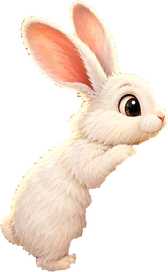
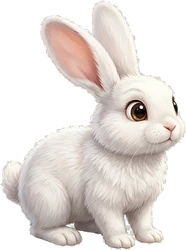
Add files via upload

diff --git a/admin.html b/admin.html
@@ -227,12 +227,12 @@ async function tShop(){
  window.__shopKeep=S;
  const pk=Array.isArray(S.perks)?S.perks:[];
  $("pane").innerHTML=`<div class="box"><h2>Налаштування магазину</h2><div class="box"><h3>Промокод за підписку</h3><label><input type="checkbox" id="prmon"${S.promo_on?" checked":""}> <b>Показувати форму «Отримай промокод» на головній</b></label><p class="mut">Спершу створіть промокод у вкладці «Промокоди», потім впишіть його сюди. Клієнт залишає email або телефон, дає згоду й бачить цей промокод.</p><div><label>Промокод (як у вкладці «Промокоди»)</label><input data-sf="promo_code" placeholder="WELCOME5" value="${esc(S.promo_code||"")}"></div><div><label>Заголовок</label><input data-sf="promo_title" placeholder="Знижка на перше замовлення" value="${esc(S.promo_title||"")}"></div><div><label>Текст</label><input data-sf="promo_text" placeholder="Залиште email або телефон і отримайте промокод" value="${esc(S.promo_text||"")}"></div></div><div class="box"><h3>Вигляд каталогу</h3><p class="mut">Плитки категорій (картинка й назва) та сітка товарів. Картинку категорії додаєте у вкладці «Категорії». Якщо картинки немає, показується фото першого товару.</p><div><label>Плиток у ряд на комп’ютері</label><select data-lay="cat_cols"><option value="2"${String(S.cat_cols||"4")==="2"?" selected":""}>2</option><option value="3"${String(S.cat_cols||"4")==="3"?" selected":""}>3</option><option value="4"${String(S.cat_cols||"4")==="4"?" selected":""}>4</option><option value="5"${String(S.cat_cols||"4")==="5"?" selected":""}>5</option><option value="6"${String(S.cat_cols||"4")==="6"?" selected":""}>6</option></select></div><div><label>Плиток у ряд на телефоні</label><select data-lay="cat_cols_m"><option value="2"${String(S.cat_cols_m||"2")==="2"?" selected":""}>2</option><option value="3"${String(S.cat_cols_m||"2")==="3"?" selected":""}>3</option></select></div><div><label>Скільки рядків плиток показувати одразу</label><select data-lay="cat_rows"><option value="0"${String(S.cat_rows||"0")==="0"?" selected":""}>Усі</option><option value="1"${String(S.cat_rows||"0")==="1"?" selected":""}>1</option><option value="2"${String(S.cat_rows||"0")==="2"?" selected":""}>2</option><option value="3"${String(S.cat_rows||"0")==="3"?" selected":""}>3</option><option value="4"${String(S.cat_rows||"0")==="4"?" selected":""}>4</option></select><p class="mut">Наприклад: 4 у ряд × 3 рядки = 12 плиток, решта під кнопкою «Показати всі».</p></div><div><label>Вигляд товарів за замовчуванням</label><select data-lay="grid_def"><option value="l"${String(S.grid_def||"l")==="l"?" selected":""}>Велика сітка</option><option value="m"${String(S.grid_def||"l")==="m"?" selected":""}>Середня сітка</option><option value="s"${String(S.grid_def||"l")==="s"?" selected":""}>Мала сітка</option><option value="list"${String(S.grid_def||"l")==="list"?" selected":""}>Список</option></select><p class="mut">Клієнт на сайті сам може перемикати вигляд кнопками біля фільтрів.</p></div></div><div class="box"><h3>Блок із цифрами на головній</h3><div class="box"><h3>Клієнти і лендінги</h3><label><input type="checkbox" id="lndend"${S.lnd_end_off?"":" checked"}> <b>Показувати «Акція завершилась» на лендінгах</b> (пояснення, діючі акції та форма «повідомити про наступну акцію»; потрібен SQL v26). Вимкнено — старе коротке повідомлення, а замовлення після завершення знижки оформлюються без попередження</label><label><input type="checkbox" id="srcon"${S.src_off?"":" checked"}> <b>Запам’ятовувати, звідки прийшов клієнт</b> (реклама, лендінг, посилання), для вкладки «Клієнти → Джерела замовлень»</label><label><input type="checkbox" id="pcod"${S.pay_cod_off?"":" checked"}> <b>Оплата при отриманні</b></label><label><input type="checkbox" id="pcard"${S.pay_card_off?"":" checked"}> <b>Оплата карткою (менеджер надсилає посилання на оплату)</b></label><label><input type="checkbox" id="pbank"${S.bank_on?" checked":""}> <b>Оплата на рахунок ФОП (IBAN)</b></label><textarea id="pbt" rows="3" placeholder="Реквізити: отримувач, IBAN, ІПН/ЄДРПОУ, банк" style="width:100%">${esc(S.bank_text||"")}</textarea><label><input type="checkbox" id="stkon"${S.stock_on?" checked":""}> <b>Облік залишків (показувати «залишилось N шт», не продавати більше, ніж є)</b></label><label><input type="checkbox" id="packon"${S.pack_off?"":" checked"}> <b>Показувати на товарах, скільки в бухті, упаковці або ящику</b></label><label><input type="checkbox" id="relon"${S.rel_off?"":" checked"}> <b>На сторінці товару: «Дивіться також» (замість «Схожі товари») — до 9 сумісних товарів з галочкою «Додати до кошика»</b></label><label><input type="checkbox" id="hson"${S.hs_off?"":" checked"}> <b>Статті та корисні інструменти на головній — з фото, гортаються вбік (кнопка «Розгорнути»)</b></label><label><input type="checkbox" id="nphon"${S.nophoto_last_off?"":" checked"}> <b>Товари без фото показувати в кінці списку (стають на місце, щойно отримають фото)</b></label><label><input type="checkbox" id="cimgon"${S.cat_img_first?"":" checked"}> <b>Фото підрозділів у каталозі — з найдорожчого товару групи (головна не змінюється)</b></label><label><input type="checkbox" id="accon"${S.acc_offer_off?"":" checked"}> <b>Після замовлення пропонувати створити кабінет</b></label></div>
-<div class="box"><h3>Сучасні можливості сайту</h3><p class="mut">Усе ввімкнене за замовчуванням. Приберіть галочку, і функція зникне з сайту.</p><label><input type="checkbox" id="cmpon"${S.cmp_off?"":" checked"}> <b>Порівняння товарів</b> (кнопка ⇄ на картці, сторінка порівняння до 4 товарів)</label><label><input type="checkbox" id="inston"${S.inst_off?"":" checked"}> <b>Банер «Встановити додаток»</b> (з’являється через 15 секунд, не частіше разу на місяць)</label><label><input type="checkbox" id="micon"${S.mic_off?"":" checked"}> <b>Голосовий пошук</b> (кнопка 🎤 у пошуку)</label><label><input type="checkbox" id="animon"${S.anim_off?"":" checked"}> <b>Плавні анімації</b> (появи карток, натискання кнопок)</label><label><input type="checkbox" id="eston"${S.est_off?"":" checked"}> <b>Кошторис у PDF</b> (кнопка в кошику й в обраному)</label><label><input type="checkbox" id="chkon"${S.check_off?"":" checked"}> <b>Чек-лист для ремонту</b> (сторінка #/check)</label><label><input type="checkbox" id="simon"${S.sim_off?"":" checked"}> <b>Симулятор кольору світла</b> (сторінка #/light)</label><label><input type="checkbox" id="colon"${S.col_off?"":" checked"}> <b>Фільтр за кольором</b> (для розеток і вимикачів)</label><label><input type="checkbox" id="frameon"${S.frame_off?"":" checked"}> <b>Конструктор рамки</b> (сторінка #/frame)</label><label><input type="checkbox" id="objon"${S.obj_off?"":" checked"}> <b>«Мої об’єкти» в кабінеті</b> (потрібен SQL v27)</label></div>
+<div class="box"><h3>Сучасні можливості сайту</h3><p class="mut">Усе ввімкнене за замовчуванням. Приберіть галочку, і функція зникне з сайту.</p><label><input type="checkbox" id="regon"${S.reg_off?"":" checked"}> <b>Напис у правому куті «Зареєструйся і отримай постійну знижку»</b> (бачать лише ті, хто ще не увійшов)</label><label><input type="checkbox" id="chaon"${S.chase_off?"":" checked"}> <b>Кролик і лампочка внизу сторінки</b> (анімація на комп’ютері, коли докрутили до кінця)</label><label><input type="checkbox" id="cmpon"${S.cmp_off?"":" checked"}> <b>Порівняння товарів</b> (кнопка ⇄ на картці, сторінка порівняння до 4 товарів)</label><label><input type="checkbox" id="inston"${S.inst_off?"":" checked"}> <b>Банер «Встановити додаток»</b> (з’являється через 15 секунд, не частіше разу на місяць)</label><label><input type="checkbox" id="micon"${S.mic_off?"":" checked"}> <b>Голосовий пошук</b> (кнопка 🎤 у пошуку)</label><label><input type="checkbox" id="animon"${S.anim_off?"":" checked"}> <b>Плавні анімації</b> (появи карток, натискання кнопок)</label><label><input type="checkbox" id="eston"${S.est_off?"":" checked"}> <b>Кошторис у PDF</b> (кнопка в кошику й в обраному)</label><label><input type="checkbox" id="chkon"${S.check_off?"":" checked"}> <b>Чек-лист для ремонту</b> (сторінка #/check)</label><label><input type="checkbox" id="simon"${S.sim_off?"":" checked"}> <b>Симулятор кольору світла</b> (сторінка #/light)</label><label><input type="checkbox" id="colon"${S.col_off?"":" checked"}> <b>Фільтр за кольором</b> (для розеток і вимикачів)</label><label><input type="checkbox" id="frameon"${S.frame_off?"":" checked"}> <b>Конструктор рамки</b> (сторінка #/frame)</label><label><input type="checkbox" id="objon"${S.obj_off?"":" checked"}> <b>«Мої об’єкти» в кабінеті</b> (потрібен SQL v27)</label></div>
 <div class="box"><h3>Помічник підбору на сайті</h3><label><input type="checkbox" id="hlpon"${S.help_on?" checked":""}> <b>Показувати сторінку «Помічник підбору» (калькулятори) і посилання в підвалі</b></label><p class="mut">Сторінка: https://trendelectro.com.ua/#/help. Вимкніть галочку, і сторінка зникне. Нижче оберіть, які калькулятори показувати (нічого не обрано = усі).</p>${Object.keys(CN2).map(k=>`<label><input type="checkbox" data-hk="${k}"${(S.help_k||[]).includes(k)?" checked":""}> ${CN2[k]}</label>`).join("")}</div>
 <label><input type="checkbox" id="stson"${S.stats_on?" checked":""}> <b>Показувати блок із цифрами</b></label><p class="mut">Якщо поля нижче порожні, показуються автоматичні цифри: кількість товарів, категорій і мінімальна ціна. Свої цифри (до 4) вписуйте лише правдиві.</p>${[0,1,2,3].map(i=>{const x=(S.stats||[])[i]||{};return `<div class="rw"><input data-sv="${i}" placeholder="Цифра, напр. 2500+" value="${esc(x.v||"")}"><input data-sl="${i}" placeholder="Підпис, напр. товарів" value="${esc(x.l||"")}"></div>`}).join("")}</div><div class="box" style="background:#fff7e0"><label><input type="checkbox" id="ordoff"${S.orders_off?" checked":""}> <b>Призупинити приймання замовлень</b> (сайт працює як каталог, кнопки купівлі сховані)</label><div><label>Текст повідомлення для клієнтів (необов’язково)</label><input data-sf="orders_msg" placeholder="Замовлення тимчасово не приймаємо…" value="${esc(S.orders_msg||"")}"></div></div><p class="mut">Ці дані показуються на сайті (шапка, підвал, контакти, кнопка чату). Порожнє поле — на сайті не показується.</p>${SHOPF.map(f=>`<div><label>${f[1]}</label><input data-sf="${f[0]}" placeholder="${esc(f[2])}" value="${esc(S[f[0]]||"")}"></div>`).join("")}<h3>Переваги на головній (до 4, необов’язково)</h3>${[0,1,2,3].map(i=>`<div class="rw"><input data-pt="${i}" placeholder="Заголовок" value="${esc(pk[i]&&pk[i].t||"")}"><input data-pd="${i}" placeholder="Пояснення" value="${esc(pk[i]&&pk[i].d||"")}"></div>`).join("")}<div class="msg" id="fm"></div><button data-act="shopsave">Зберегти</button></div>`;
 }
 async function shopSave(btn){
- const S={};if(!$("lndend").checked)S.lnd_end_off=true;if(!$("srcon").checked)S.src_off=true;if(!$("accon").checked)S.acc_offer_off=true;if(!$("packon").checked)S.pack_off=true;if(!$("nphon").checked)S.nophoto_last_off=true;if(!$("hson").checked)S.hs_off=true;if(!$("relon").checked)S.rel_off=true;if(!$("cimgon").checked)S.cat_img_first=true;if($("stkon").checked)S.stock_on=true;if(!$("pcod").checked)S.pay_cod_off=true;if(!$("pcard").checked)S.pay_card_off=true;if($("pbank").checked)S.bank_on=true;S.bank_text=$("pbt").value.trim();if($("hlpon").checked)S.help_on=true;if(!$("cmpon").checked)S.cmp_off=true;if(!$("inston").checked)S.inst_off=true;if(!$("micon").checked)S.mic_off=true;if(!$("animon").checked)S.anim_off=true;if(!$("eston").checked)S.est_off=true;if(!$("chkon").checked)S.check_off=true;if(!$("simon").checked)S.sim_off=true;if(!$("colon").checked)S.col_off=true;if(!$("frameon").checked)S.frame_off=true;if(!$("objon").checked)S.obj_off=true;{const hk=[...document.querySelectorAll("[data-hk]:checked")].map(x=>x.dataset.hk);if(hk.length)S.help_k=hk}if($("ordoff").checked)S.orders_off=true;if($("stson").checked)S.stats_on=true;if($("prmon").checked)S.promo_on=true;["bday_on","bday_percent","bday_text","bday_img","bday_days"].forEach(k=>{if(window.__shopKeep&&window.__shopKeep[k]!==undefined)S[k]=window.__shopKeep[k]});document.querySelectorAll("[data-lay]").forEach(x=>{S[x.dataset.lay]=x.value});{const st=[0,1,2,3].map(i=>({v:document.querySelector(`[data-sv="${i}"]`).value.trim(),l:document.querySelector(`[data-sl="${i}"]`).value.trim()})).filter(x=>x.v&&x.l);if(st.length)S.stats=st}document.querySelectorAll("[data-sf]").forEach(i=>{const v=i.value.trim();if(v)S[i.dataset.sf]=v});
+ const S={};if(!$("lndend").checked)S.lnd_end_off=true;if(!$("srcon").checked)S.src_off=true;if(!$("accon").checked)S.acc_offer_off=true;if(!$("regon").checked)S.reg_off=true;if(!$("chaon").checked)S.chase_off=true;if(!$("packon").checked)S.pack_off=true;if(!$("nphon").checked)S.nophoto_last_off=true;if(!$("hson").checked)S.hs_off=true;if(!$("relon").checked)S.rel_off=true;if(!$("cimgon").checked)S.cat_img_first=true;if($("stkon").checked)S.stock_on=true;if(!$("pcod").checked)S.pay_cod_off=true;if(!$("pcard").checked)S.pay_card_off=true;if($("pbank").checked)S.bank_on=true;S.bank_text=$("pbt").value.trim();if($("hlpon").checked)S.help_on=true;if(!$("cmpon").checked)S.cmp_off=true;if(!$("inston").checked)S.inst_off=true;if(!$("micon").checked)S.mic_off=true;if(!$("animon").checked)S.anim_off=true;if(!$("eston").checked)S.est_off=true;if(!$("chkon").checked)S.check_off=true;if(!$("simon").checked)S.sim_off=true;if(!$("colon").checked)S.col_off=true;if(!$("frameon").checked)S.frame_off=true;if(!$("objon").checked)S.obj_off=true;{const hk=[...document.querySelectorAll("[data-hk]:checked")].map(x=>x.dataset.hk);if(hk.length)S.help_k=hk}if($("ordoff").checked)S.orders_off=true;if($("stson").checked)S.stats_on=true;if($("prmon").checked)S.promo_on=true;["bday_on","bday_percent","bday_text","bday_img","bday_days"].forEach(k=>{if(window.__shopKeep&&window.__shopKeep[k]!==undefined)S[k]=window.__shopKeep[k]});document.querySelectorAll("[data-lay]").forEach(x=>{S[x.dataset.lay]=x.value});{const st=[0,1,2,3].map(i=>({v:document.querySelector(`[data-sv="${i}"]`).value.trim(),l:document.querySelector(`[data-sl="${i}"]`).value.trim()})).filter(x=>x.v&&x.l);if(st.length)S.stats=st}document.querySelectorAll("[data-sf]").forEach(i=>{const v=i.value.trim();if(v)S[i.dataset.sf]=v});
  const pk=[0,1,2,3].map(i=>({t:document.querySelector(`[data-pt="${i}"]`).value.trim(),d:document.querySelector(`[data-pd="${i}"]`).value.trim()}));
  if(pk.some(x=>x.t))S.perks=pk;
  btn.disabled=true;const r=await sb.from("settings").upsert({key:"shop",value:S,updated_at:new Date().toISOString()});btn.disabled=false;

diff --git a/app.js b/app.js
@@ -150,19 +150,18 @@ function statsHtml(){
  if(!it.length){const mn=P.reduce((m,p)=>{const v=price(p);return v>0&&v<m?v:m},1e9);it=[{v:P.length>=100?Math.floor(P.length/100)*100+"+":String(P.length),l:"товарів у каталозі"},{v:String(kids(ROOT).length),l:"категорій"}];if(mn<1e9)it.push({v:"від "+Math.ceil(mn),l:"грн — мінімальна ціна"})}
  return `<section class="stats">${it.slice(0,4).map(x=>{const m=String(x.v).match(/^(\D*?)(\d[\d\s]*)(\D*)$/);const n=m?m[2].replace(/\s/g,""):"";return `<div><b${m?` data-cnt="${esc(n)}" data-pre="${esc(m[1])}" data-suf="${esc(m[3])}"`:""}>${esc(x.v)}</b><span>${esc(x.l)}</span></div>`}).join("")}</section>`}
 function runCounters(){document.querySelectorAll(".stats b[data-cnt]").forEach(el=>{if(el.dataset.run)return;el.dataset.run=1;const to=+el.dataset.cnt,pre=el.dataset.pre,suf=el.dataset.suf;const go=()=>{const t0=performance.now(),d=1400;(function f(t){const k=Math.min(1,(t-t0)/d),e=1-Math.pow(1-k,3);el.textContent=pre+Math.round(to*e)+suf;if(k<1)requestAnimationFrame(f)})(t0)};if(!("IntersectionObserver"in window)||matchMedia("(prefers-reduced-motion:reduce)").matches)return;const io=new IntersectionObserver(es=>{if(es[0].isIntersecting){io.disconnect();go()}});io.observe(el)})}
-/* кролик, що ганяється за LED-лампочкою біля підвалу: лише комп'ютер, запускається коли докрутили сторінку до кінця */
-const BULB='<svg viewBox="0 0 48 70" class="bsvg"><defs><radialGradient id="bgl" cx="50%" cy="38%" r="60%"><stop offset="0" stop-color="#fffbe0"/><stop offset=".55" stop-color="#ffe45c"/><stop offset="1" stop-color="#ffb21e"/></radialGradient></defs><g class="blg"><circle cx="24" cy="22" r="22" fill="#ffe45c" opacity=".28"/></g><g class="lgA"><path d="M19 47l-5 14h-5" stroke="#4a4a52" stroke-width="3.2" fill="none" stroke-linecap="round" stroke-linejoin="round"/></g><g class="lgB"><path d="M29 47l5 14h5" stroke="#4a4a52" stroke-width="3.2" fill="none" stroke-linecap="round" stroke-linejoin="round"/></g><path d="M24 2C13 2 6 10 6 20c0 7 4 11 7 15 1.6 2 2 3.6 2 6h18c0-2.4.4-4 2-6 3-4 7-8 7-15C42 10 35 2 24 2z" fill="url(#bgl)" stroke="#e29a12" stroke-width="1.4"/><path d="M15 41h18v3H15zM16 45h16v3H16zM19 49h10v2.4a5 5 0 0 1-10 0z" fill="#d7dde3" stroke="#9aa5ae" stroke-width="1"/><path d="M14 13c2-4 6-6 9-6" stroke="#fff" stroke-width="2.4" stroke-linecap="round" fill="none" opacity=".85"/><g class="eyes"><circle cx="19" cy="21" r="4.6" fill="#fff" stroke="#8a6a10" stroke-width="1"/><circle cx="31" cy="21" r="4.6" fill="#fff" stroke="#8a6a10" stroke-width="1"/><circle cx="20.6" cy="21.4" r="2.1" fill="#222"/><circle cx="32.6" cy="21.4" r="2.1" fill="#222"/></g><path d="M20 30c1.6-1.8 6.4-1.8 8 0" stroke="#8a4a10" stroke-width="1.8" fill="none" stroke-linecap="round"/><path class="swt" d="M38 9c2 3 3 5 1 7-2 1.4-4-.6-3-2.6z" fill="#7fd3ff"/></svg>';
-const RABBIT='<svg viewBox="0 0 175 236" class="rbsvg"><defs><radialGradient id="rbf" cx="40%" cy="30%" r="80%"><stop offset="0" stop-color="#fff"/><stop offset=".65" stop-color="#fff8f0"/><stop offset="1" stop-color="#f1dfcb"/></radialGradient><radialGradient id="rbf2" cx="40%" cy="30%" r="80%"><stop offset="0" stop-color="#fffaf4"/><stop offset="1" stop-color="#ead6c0"/></radialGradient><linearGradient id="rbe" x1="0" y1="1" x2="0" y2="0"><stop offset="0" stop-color="#ffd0cc"/><stop offset="1" stop-color="#ff9aa2"/></linearGradient><radialGradient id="rbi" cx="40%" cy="35%" r="70%"><stop offset="0" stop-color="#b3722e"/><stop offset="1" stop-color="#5b3314"/></radialGradient><filter id="rbz" x="-10%" y="-10%" width="120%" height="120%"><feTurbulence type="fractalNoise" baseFrequency=".55" numOctaves="2" seed="4" result="n"/><feDisplacementMap in="SourceGraphic" in2="n" scale="3.4" xChannelSelector="R" yChannelSelector="G"/></filter></defs><g transform="translate(0 28)"><g stroke="#e4cfb8" stroke-width="1.6" stroke-linejoin="round" filter="url(#rbz)"><g class="tl"><circle cx="22" cy="150" r="14" fill="url(#rbf)"/><path d="M12 146l5 2M11 153l6-1M15 160l5-3" stroke="#ecd9c4" fill="none" stroke-linecap="round"/></g><g class="e2"><ellipse cx="100" cy="14" rx="12" ry="39" transform="rotate(-6 100 50)" fill="url(#rbf2)"/><ellipse cx="100" cy="17" rx="6.5" ry="31" transform="rotate(-6 100 50)" fill="url(#rbe)" stroke="none" opacity=".85"/></g><g class="hl"><ellipse cx="52" cy="190" rx="27" ry="10" fill="url(#rbf)"/><ellipse cx="48" cy="160" rx="27" ry="30" fill="url(#rbf)"/></g><ellipse cx="74" cy="138" rx="40" ry="52" transform="rotate(-22 74 138)" fill="url(#rbf)"/><path d="M44 150c4 8 10 14 20 18M52 128c4 6 10 10 18 12M60 108c3 4 8 7 14 8" stroke="#eedcc8" fill="none" stroke-linecap="round" stroke-width="1.4"/><g class="fl"><ellipse cx="100" cy="124" rx="9" ry="22" transform="rotate(-18 100 124)" fill="url(#rbf)"/><ellipse cx="112" cy="140" rx="13" ry="8" transform="rotate(-10 112 140)" fill="url(#rbf)"/></g><ellipse cx="104" cy="76" rx="36" ry="31" fill="url(#rbf)"/><ellipse cx="120" cy="88" rx="26" ry="19" fill="url(#rbf)" stroke="none"/><path d="M80 96c4 6 10 9 17 9M92 100c4 5 9 7 15 7" stroke="#eedcc8" fill="none" stroke-linecap="round" stroke-width="1.4"/><g class="e1"><ellipse cx="70" cy="30" rx="16" ry="45" transform="rotate(-34 90 58)" fill="url(#rbf)"/><ellipse cx="70" cy="34" rx="10" ry="37" transform="rotate(-34 90 58)" fill="url(#rbe)" stroke="none"/></g></g></g><ellipse cx="122" cy="95" rx="8" ry="5" fill="#ffc0c8" opacity=".55"/><g class="ey"><ellipse cx="117" cy="72" rx="12" ry="13.5" fill="#fff" stroke="#c9b49c" stroke-width="1.2"/><ellipse cx="120" cy="74" rx="9.4" ry="10.6" fill="url(#rbi)"/><ellipse cx="121" cy="74.5" rx="5.2" ry="6.3" fill="#1b0f0a"/><circle cx="123.6" cy="69.4" r="3.2" fill="#fff"/><circle cx="117.5" cy="78" r="1.4" fill="#fff" opacity=".8"/><path d="M105 60c5-5 14-6 21-1" stroke="#cdb59a" stroke-width="1.6" fill="none" stroke-linecap="round"/></g><path d="M139 83c3 1 5 3 4 6-1 2-4 3-7 2z" fill="#ff8fa0"/><path d="M136 91c1 4 4 6 8 5M136 91c-1 3-4 5-7 5" stroke="#d99aa0" stroke-width="1.5" fill="none" stroke-linecap="round"/><g stroke="#d9c7b3" stroke-width="1" stroke-linecap="round"><path d="M136 88l26-6M136 90l27 1M135 93l24 9M126 86l-10-2"/></g></g></svg>';
+/* кролик ганяється за лампочкою біля підвалу: лише комп'ютер, запускається коли докрутили сторінку до кінця */
 function initChase(){
  const f=document.querySelector("footer");let c=$("chase");
  const ok=f&&!SHOP.chase_off&&matchMedia("(min-width:1024px) and (hover:hover) and (pointer:fine)").matches&&!matchMedia("(prefers-reduced-motion:reduce)").matches;
  if(!ok){if(c)c.remove();document.body.classList.remove("hasch");return}
  if(c)return;
  c=document.createElement("div");c.id="chase";c.className="chase";c.setAttribute("aria-hidden","true");
- c.innerHTML='<div class="lane"><div class="cb"><div class="barc"><div class="bflip"><div class="bbob">'+BULB+'</div></div></div></div><div class="cr"><div class="rflip"><div class="rhop">'+RABBIT+'</div></div></div></div>';
+ const u=esc(BASE);
+ c.innerHTML='<div class="lane"><div class="cb"><div class="barc"><div class="bflip"><div class="bbob"><img src="'+u+'bulb.webp" alt="" width="62" height="89" draggable="false"></div></div></div></div><div class="cr"><div class="rflip"><div class="rhop"><img src="'+u+'rabbit.webp" alt="" width="90" height="121" draggable="false"></div></div></div></div>';
  f.insertBefore(c,f.firstChild);document.body.classList.add("hasch");
- const lane=c.firstChild,fit=()=>lane.style.setProperty("--d",Math.max(200,lane.clientWidth-92)+"px");
- const chk=()=>{const h=document.documentElement,atEnd=(window.scrollY+innerHeight)>=h.scrollHeight-70;c.classList.toggle("on",atEnd)};
+ const lane=c.firstChild,fit=()=>lane.style.setProperty("--d",Math.max(200,lane.clientWidth-94)+"px");
+ const chk=()=>{const h=document.documentElement;c.classList.toggle("on",(window.scrollY+innerHeight)>=h.scrollHeight-70)};
  fit();chk();addEventListener("resize",()=>{fit();chk()});addEventListener("scroll",chk,{passive:true});
 }
 function regBar(){let b=$("regbar");const on=!me&&!SHOP.reg_off&&!!sb;if(!on){if(b)b.remove();return}if(!b){b=document.createElement("button");b.type="button";b.id="regbar";b.className="regbar";b.innerHTML='<span>🎁 Зареєструйся і гарантовано отримай постійну знижку на всі покупки</span><b>Зареєструватися →</b>';b.addEventListener("click",()=>{tab="up";drawAcc();panel("acc",true)});document.body.insertBefore(b,document.body.firstChild)}}

diff --git a/app.css b/app.css
@@ -803,49 +803,6 @@ html{background:var(--nav)}body{min-height:100vh;min-height:100dvh}
 .regbar b{background:rgba(255,255,255,.22);border-radius:99px;padding:3px 12px;font-weight:700;white-space:nowrap}
 .regbar:hover b{background:rgba(255,255,255,.36)}
 @media (min-width:1024px) and (hover:hover) and (pointer:fine){.regbar{justify-content:flex-end;padding:7px max(24px,calc((100vw - var(--W,1280px))/2 + 24px));font-size:14px}}
-
-/* v81: кролик ганяється за лампочкою біля підвалу (тільки комп'ютер, вмикається в кінці сторінки) */
-.chase{display:none}
-@media (min-width:1024px) and (hover:hover) and (pointer:fine){
- body.hasch footer{position:relative;margin-top:160px}
- .chase{display:block;position:absolute;left:0;right:0;bottom:100%;width:100%;max-width:var(--W,1380px);margin:0 auto;height:160px;pointer-events:none;z-index:3;opacity:0;transition:opacity .6s}
- .chase.on{opacity:1}
- .chase .lane{position:absolute;left:24px;right:24px;bottom:0;height:100%;--T:16s}
- .chase .cb,.chase .cr{position:absolute;bottom:-1px;left:0;width:92px;animation-play-state:paused}
- .chase.on .cb,.chase.on .cr,.chase.on .cb *,.chase.on .cr *{animation-play-state:running}
- .chase .cb *,.chase .cr *{animation-play-state:paused}
- .chase .cb{width:56px;margin-left:14px;animation:chB var(--T) linear infinite}
- .chase .cr{animation:chR var(--T) linear infinite}
- .chase .bflip,.chase .rflip{transform-origin:50% 50%}
- .chase .bflip{animation:chBf var(--T) steps(1,end) infinite}
- .chase .rflip{animation:chRf var(--T) steps(1,end) infinite}
- .chase .barc{animation:chArc var(--T) linear infinite}
- .chase .bbob{animation:chBob .32s ease-in-out infinite;transform-origin:50% 100%}
- .chase .rhop{animation:chHop .5s cubic-bezier(.3,.1,.5,1) infinite;transform-origin:50% 100%}
- .chase .rbsvg{display:block;width:92px;height:auto;overflow:visible;user-select:none;filter:drop-shadow(0 5px 5px rgba(0,0,0,.16))}
- .chase .rbsvg g{transform-box:fill-box}
- .chase .e1{transform-origin:85% 95%;animation:chEar .5s ease-in-out infinite alternate}
- .chase .e2{transform-origin:50% 100%;animation:chEar2 .5s ease-in-out infinite alternate}
- .chase .hl{transform-origin:55% 20%;animation:chHl .5s ease-in-out infinite}
- .chase .fl{transform-origin:50% 5%;animation:chFl .5s ease-in-out infinite}
- .chase .tl{animation:chTl .25s ease-in-out infinite alternate}
- .chase .ey{transform-origin:50% 50%;animation:chBlink 3.2s infinite}
- .chase .bsvg{display:block;width:56px;height:auto;overflow:visible;filter:drop-shadow(0 0 14px rgba(255,214,60,.85))}
- .chase .lgA,.chase .lgB{transform-box:fill-box;transform-origin:50% 0;animation:chLeg .32s ease-in-out infinite}
- .chase .lgB{animation-delay:-.16s}
- .chase .blg{animation:chGlow .8s ease-in-out infinite alternate;transform-box:fill-box;transform-origin:center}
- .chase .swt{animation:chSw .8s ease-in infinite}
-}
-@keyframes chB{0%{transform:translateX(calc(var(--d)*.30))}40%,46%{transform:translateX(var(--d))}52%{transform:translateX(calc(var(--d)*.76))}92%,96%{transform:translateX(0)}100%{transform:translateX(calc(var(--d)*.30))}}
-@keyframes chR{0%{transform:translateX(calc(var(--d)*.12))}40%{transform:translateX(calc(var(--d)*.86))}46%,52%{transform:translateX(calc(var(--d)*.92))}92%{transform:translateX(calc(var(--d)*.14))}96%{transform:translateX(calc(var(--d)*.08))}100%{transform:translateX(calc(var(--d)*.12))}}
-@keyframes chBf{0%,45.9%{transform:scaleX(1)}46%,95.9%{transform:scaleX(-1)}96%,100%{transform:scaleX(1)}}
-@keyframes chRf{0%,51.9%{transform:scaleX(1)}52%,97.9%{transform:scaleX(-1)}98%,100%{transform:scaleX(1)}}
-@keyframes chArc{0%,46%{transform:translateY(0)}49%{transform:translateY(-120px)}52%,96%{transform:translateY(0)}98%{transform:translateY(-120px)}100%{transform:translateY(0)}}
-@keyframes chBob{0%,100%{transform:translateY(0) rotate(-3deg)}50%{transform:translateY(-7px) rotate(3deg)}}
-@keyframes chHop{0%{transform:translateY(0) scale(1.06,.92) rotate(0)}18%{transform:translateY(-6px) scale(.96,1.05) rotate(-2deg)}50%{transform:translateY(-38px) scale(.97,1.04) rotate(-4deg)}82%{transform:translateY(-4px) scale(1,1) rotate(-1deg)}100%{transform:translateY(0) scale(1.06,.92) rotate(0)}}
-@keyframes chLeg{0%,100%{transform:rotate(32deg)}50%{transform:rotate(-32deg)}}
-@keyframes chGlow{from{transform:scale(.85);opacity:.5}to{transform:scale(1.25);opacity:1}}
-@keyframes chSw{0%{transform:translate(0,0);opacity:0}30%{opacity:1}100%{transform:translate(-4px,14px);opacity:0}}
 @media (max-width:1023px){.regbar{padding:6px 12px;font-size:12px}.regbar b{display:none}}
 @keyframes chEar{from{transform:rotate(-8deg)}to{transform:rotate(10deg)}}
 @keyframes chEar2{from{transform:rotate(5deg)}to{transform:rotate(-9deg)}}
@@ -853,3 +810,33 @@ html{background:var(--nav)}body{min-height:100vh;min-height:100dvh}
 @keyframes chFl{0%,100%{transform:rotate(-18deg)}50%{transform:rotate(16deg)}}
 @keyframes chTl{from{transform:translateX(0) scale(1)}to{transform:translateX(-2px) scale(1.12)}}
 @keyframes chBlink{0%,92%,100%{transform:scaleY(1)}95%{transform:scaleY(.1)}}
+
+/* v84: кролик ганяється за лампочкою біля підвалу (тільки комп'ютер, вмикається в кінці сторінки) */
+.chase{display:none}
+@media (min-width:1024px) and (hover:hover) and (pointer:fine){
+ body.hasch footer{position:relative;margin-top:160px}
+ .chase{display:block;position:absolute;left:0;right:0;bottom:100%;width:100%;max-width:var(--W,1380px);margin:0 auto;height:160px;pointer-events:none;z-index:3;opacity:0;transition:opacity .6s}
+ .chase.on{opacity:1}
+ .chase .lane{position:absolute;left:24px;right:24px;bottom:0;height:100%;--T:16s}
+ .chase .cb,.chase .cr{position:absolute;bottom:-1px;left:0}
+ .chase .cr{width:90px;animation:chR var(--T) linear infinite}
+ .chase .cb{width:62px;margin-left:16px;animation:chB var(--T) linear infinite}
+ .chase .cb,.chase .cr,.chase .cb *,.chase .cr *{animation-play-state:paused}
+ .chase.on .cb,.chase.on .cr,.chase.on .cb *,.chase.on .cr *{animation-play-state:running}
+ .chase .bflip{animation:chBf var(--T) steps(1,end) infinite}
+ .chase .rflip{animation:chRf var(--T) steps(1,end) infinite}
+ .chase .barc{animation:chArc var(--T) linear infinite}
+ .chase .bbob{animation:chBob .34s ease-in-out infinite;transform-origin:50% 100%}
+ .chase .rhop{animation:chHop .5s cubic-bezier(.3,.1,.5,1) infinite;transform-origin:50% 100%}
+ .chase img{display:block;width:100%;height:auto;user-select:none}
+ .chase .rhop img{filter:drop-shadow(0 6px 6px rgba(0,0,0,.18))}
+ .chase .bbob img{animation:chGl .8s ease-in-out infinite alternate}
+}
+@keyframes chB{0%{transform:translateX(calc(var(--d)*.30))}40%,46%{transform:translateX(var(--d))}52%{transform:translateX(calc(var(--d)*.76))}92%,96%{transform:translateX(0)}100%{transform:translateX(calc(var(--d)*.30))}}
+@keyframes chR{0%{transform:translateX(calc(var(--d)*.12))}40%{transform:translateX(calc(var(--d)*.86))}46%,52%{transform:translateX(calc(var(--d)*.92))}92%{transform:translateX(calc(var(--d)*.14))}96%{transform:translateX(calc(var(--d)*.08))}100%{transform:translateX(calc(var(--d)*.12))}}
+@keyframes chBf{0%,45.9%{transform:scaleX(1)}46%,95.9%{transform:scaleX(-1)}96%,100%{transform:scaleX(1)}}
+@keyframes chRf{0%,51.9%{transform:scaleX(1)}52%,97.9%{transform:scaleX(-1)}98%,100%{transform:scaleX(1)}}
+@keyframes chArc{0%,46%{transform:translateY(0)}49%{transform:translateY(-130px)}52%,96%{transform:translateY(0)}98%{transform:translateY(-130px)}100%{transform:translateY(0)}}
+@keyframes chBob{0%,100%{transform:translateY(0) rotate(-5deg) scale(1.05,.94)}50%{transform:translateY(-9px) rotate(5deg) scale(.97,1.04)}}
+@keyframes chHop{0%{transform:translateY(0) scale(1.05,.92) rotate(0)}18%{transform:translateY(-6px) scale(.97,1.04) rotate(-3deg)}50%{transform:translateY(-40px) scale(.97,1.04) rotate(-6deg)}82%{transform:translateY(-4px) rotate(-1deg)}100%{transform:translateY(0) scale(1.05,.92) rotate(0)}}
+@keyframes chGl{from{filter:drop-shadow(0 0 5px rgba(255,214,60,.45))}to{filter:drop-shadow(0 0 16px rgba(255,214,60,.95))}}

diff --git a/index.html b/index.html
@@ -18,12 +18,12 @@
 <link rel="preconnect" href="https://fonts.googleapis.com"><link rel="preconnect" href="https://fonts.gstatic.com" crossorigin>
 <link rel="preconnect" href="https://indkdtiofjahcshdxlcg.supabase.co" crossorigin><link rel="preconnect" href="https://wsrv.nl">
 <link rel="stylesheet" href="https://fonts.googleapis.com/css2?family=Manrope:wght@400;600;700;800&display=swap" media="print" onload="this.media='all'"><noscript><link rel="stylesheet" href="https://fonts.googleapis.com/css2?family=Manrope:wght@400;600;700;800&display=swap"></noscript>
-<link rel="stylesheet" href="app.css?v=82">
+<link rel="stylesheet" href="app.css?v=84">
 <link rel="preload" href="img/map.json" as="fetch" crossorigin>
 <script src="config.js"></script>
 <script>/* каталог починає вантажитись одразу, паралельно з кодом сайту */try{(function(){var c=null;try{c=JSON.parse(localStorage.getItem("te_cat")||"null")}catch(e){}if(c&&c.rows&&c.rows.length&&Date.now()-c.t<864e5)return;var T=window.TE;if(!T||!T.url||!window.fetch)return;var n=Math.ceil((+localStorage.getItem("te_pc")||3000)/1000)+1,q=[];for(var i=0;i<n;i++)q.push(fetch(T.url+"/rest/v1/products?select=id,name,category,subcategory,subcategory2,brand,price,old_price,image_url,in_stock,is_hit,is_new,special,pack_qty,in_pack,in_box,stock,pack_only&active=eq.true&order=id.asc&offset="+i*1000+"&limit=1000",{headers:{apikey:T.key,Authorization:"Bearer "+T.key}}).then(function(r){if(!r.ok)throw 0;return r.json()}));window.__CAT=Promise.all(q);window.__CAT.catch(function(){})})()}catch(e){}</script>
 <script defer src="supabase.js"></script>
-<script defer src="app.js?v=93"></script>
+<script defer src="app.js?v=95"></script>
 </head>
 <body>
 <svg width="0" height="0" style="position:absolute" aria-hidden="true">

diff --git a/sw.js b/sw.js
@@ -1,5 +1,5 @@
 /* Trend Electro: service worker. Сторінка й основні файли — з мережі (якщо мережа повільна понад 3 с — з памʼяті); фото товарів — одразу з памʼяті телефону, оновлюються у фоні. */
-const V="te-shell-20",IMG="te-img-2",MAXIMG=1200,S=self.registration.scope,CORE=["","index.html","app.js","app.css","config.js","articles.json","logo1.webp","logo2.webp","manifest.webmanifest"].map(x=>S+x);
+const V="te-shell-22",IMG="te-img-2",MAXIMG=1200,S=self.registration.scope,CORE=["","index.html","app.js","app.css","config.js","articles.json","logo1.webp","logo2.webp","manifest.webmanifest"].map(x=>S+x);
 self.addEventListener("install",e=>{e.waitUntil(caches.open(V).then(c=>Promise.allSettled(CORE.map(u=>c.add(u)))).then(()=>self.skipWaiting()))});
 self.addEventListener("activate",e=>{e.waitUntil(caches.keys().then(k=>Promise.all(k.filter(x=>x!==V&&x!==IMG).map(x=>caches.delete(x)))).then(()=>self.clients.claim()))});
 let trimming=0;
